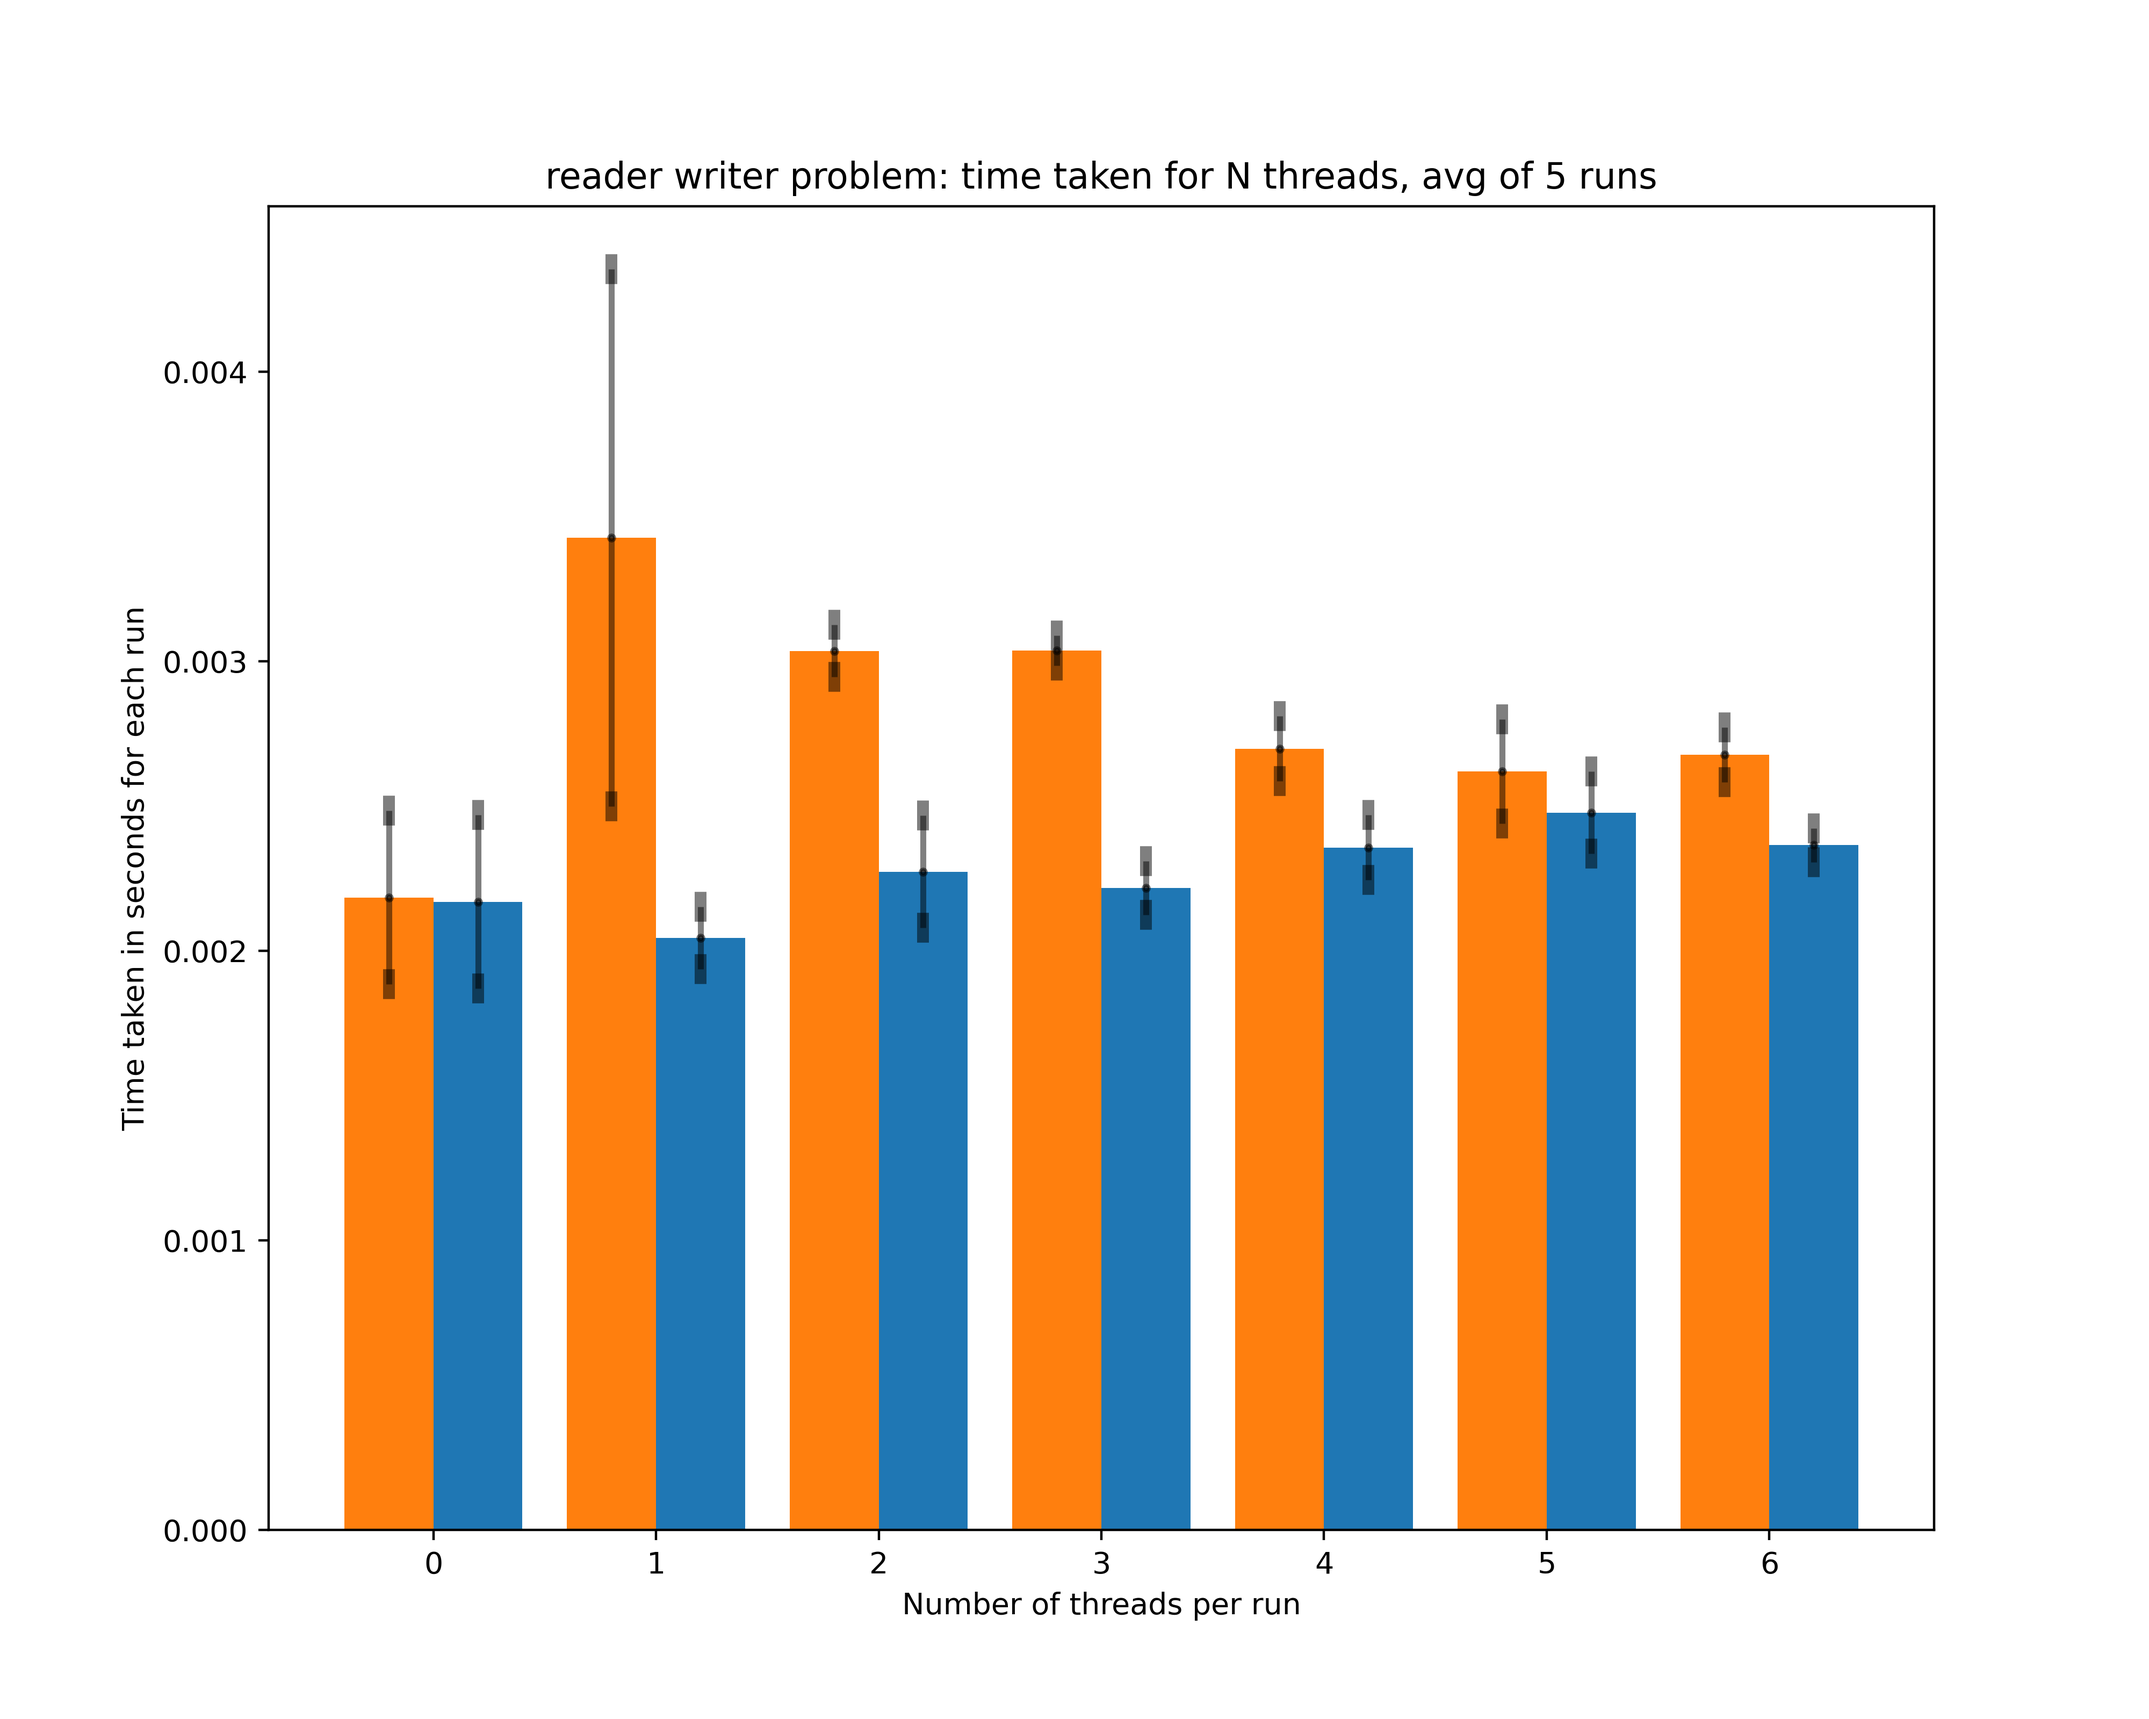
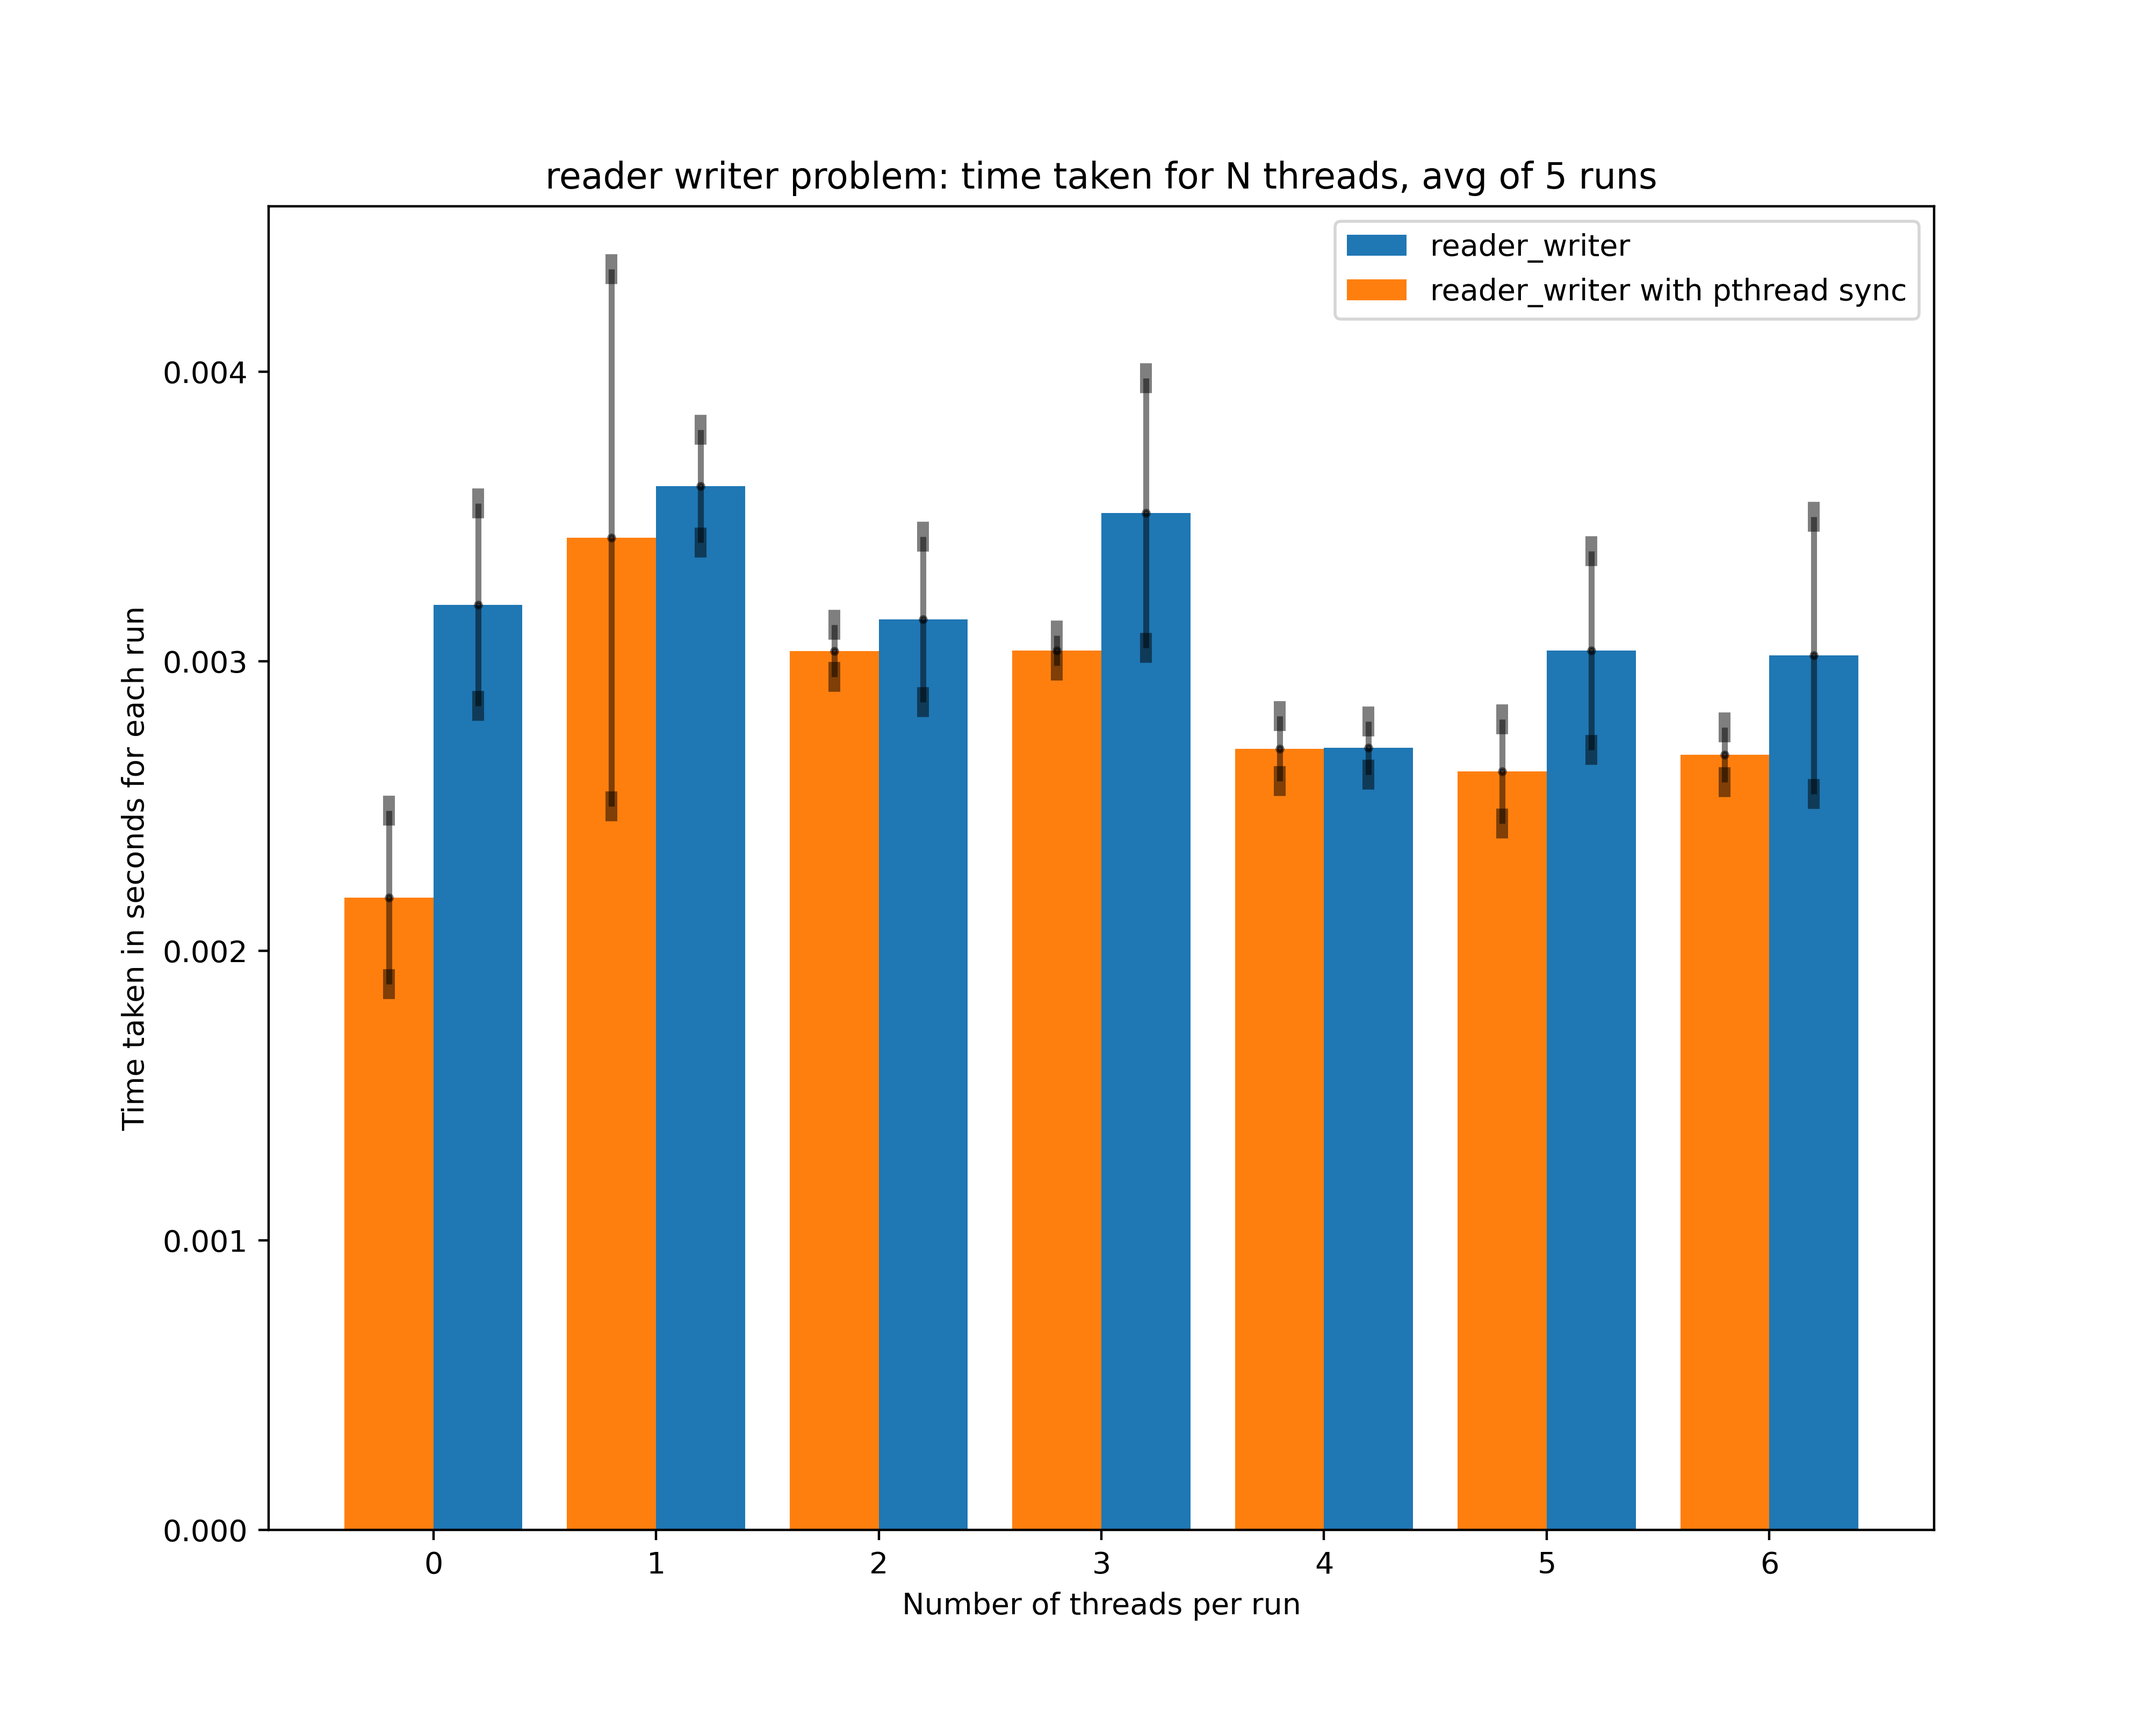
fixed graphs

diff --git a/analysis.py b/analysis.py
@@ -20,7 +20,7 @@ class CurrentProblem(Enum):
 
 
 def plot_file(file, current_problems: (str, str)):
-    old_problem, new_problem = current_problems
+    new_problem, old_problem = current_problems
 
     reader = csv.reader(file, delimiter=",")
 
@@ -28,8 +28,8 @@ def plot_file(file, current_problems: (str, str)):
     y = []
     y_err = []
 
-    new_problem_y = []
-    new_problem_y_err = []
+    old_problem_y = []
+    old_problem_y_err = []
 
     for row in reader:
         threads.append(row[0])
@@ -42,7 +42,7 @@ def plot_file(file, current_problems: (str, str)):
         y_err.append(stdev)
         y.append(statistics.mean(float_row))
 
-    with open(f"./data/{new_problem}.csv") as f2:
+    with open(f"./data/{old_problem}.csv") as f2:
         reader2 = csv.reader(f2, delimiter=",")
         for row2 in reader2:
             float_row2 = []
@@ -52,8 +52,8 @@ def plot_file(file, current_problems: (str, str)):
                 float_row2.append(duration)
 
             stdev = statistics.stdev(float_row2)
-            new_problem_y_err.append(stdev)
-            new_problem_y.append(statistics.mean(float_row2))
+            old_problem_y_err.append(stdev)
+            old_problem_y.append(statistics.mean(float_row2))
 
     width = 10
     height = 8
@@ -62,25 +62,25 @@ def plot_file(file, current_problems: (str, str)):
 
     plt.figure(figsize=(width, height))
 
-    plt.bar(X_axis, y, 0.4, label=old_problem)
+    plt.bar(X_axis, y, 0.4, label=new_problem)
     plt.errorbar(X_axis, y, y_err, fmt=".", color="Black", elinewidth=2, capthick=10, errorevery=1, alpha=0.5, ms=4,
                  capsize=2)
 
-    plt.bar(X_axis - 0.4, new_problem_y, 0.4, label=new_problem)
-    plt.errorbar(X_axis - 0.4, new_problem_y, new_problem_y_err, fmt=".", color="Black", elinewidth=2, capthick=10, errorevery=1,
+    plt.bar(X_axis - 0.4, old_problem_y, 0.4, label=old_problem.replace("old_", "") + " with pthread sync")
+    plt.errorbar(X_axis - 0.4, old_problem_y, old_problem_y_err, fmt=".", color="Black", elinewidth=2, capthick=10, errorevery=1,
                  alpha=0.5, ms=4,
                  capsize=2)
 
-    name = old_problem.replace("_", " ")
-    if old_problem == CurrentProblem.TEST_AND_SET_LOCK.value:
-        name = old_problem.replace("_", " ") + " & test and test and and set"
+    name = new_problem.replace("_", " ")
+    if new_problem == CurrentProblem.TEST_AND_SET_LOCK.value:
+        name = new_problem.replace("_", " ") + " & test and test and and set"
 
     plt.title(f"{name} problem: time taken for N threads, avg of 5 runs")
 
     plt.xlabel("Number of threads per run")
     plt.ylabel("Time taken in seconds for each run")
-
-    plt.savefig(f'./data/figure_{old_problem}.png', dpi=400, transparent=False)
+    plt.legend()
+    plt.savefig(f'./data/figure_{new_problem}.png', dpi=400, transparent=False)
     # plt.show()
 
 
